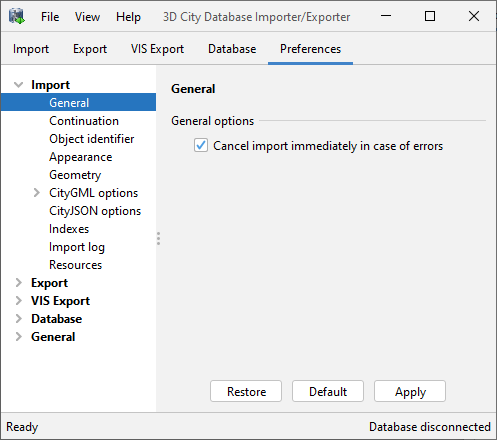
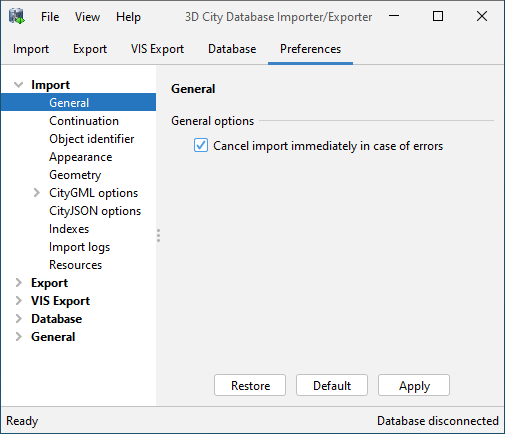
added documentation of new import modes for GUI and CLI

diff --git a/source/impexp/cli/import.rst b/source/impexp/cli/import.rst
@@ -8,9 +8,9 @@ Import command
 .. code-block:: bash
 
    impexp import [-hV] [--[no-]fail-fast] [--ade-extensions=<folder>]
-                 [-c=<file>] [--import-log=<file>]
+                 [-c=<file>] [--duplicate-log=<file>] [--import-log=<file>]
                  [--input-encoding=<encoding>] [--log-file=<file>]
-                 [--log-level=<level>] [--pid-file=<file>]
+                 [--log-level=<level>] [-o=<mode>] [--pid-file=<file>]
                  [--plugins=<folder>] [--use-plugin=<plugin[=true|false]>[,
                  <plugin[=true|false]>...]]... [--worker-threads=<threads[,
                  max]>] [[--creation-date=<mode>]
@@ -21,12 +21,13 @@ Import command
                  <prefix=name>...]]...] [-i=<id>[,<id>...] [-i=<id>[,
                  <id>...]]...] [-b=<minx,miny,maxx,maxy[,srid]>
                  [--bbox-mode=<mode>]] [[--count=<count>]
-                 [--start-index=<index>]] [[--no-appearance]]] [-f=<file>
-                 [-m=<mode>] [-w] [[-n=<name>] [-I=<index>] [--[no-]header]
-                 [-D=<string>] [-Q=<char>] [--quote-escape=<char>]
-                 [-M=<char>] [--csv-encoding=<encoding>]]] [[-T=<database>]
-                 [-H=<host>] [-P=<port>] [-d=<name>] [-S=<schema>]
-                 [-u=<name>] [-p[=<password>]]] [@<filename>...] <file>...
+                 [--start-index=<index>]] [[--no-appearance]]] [-f=<file>[,
+                 <file>...] [-f=<file>[,<file>...]]... [-m=<mode>] [-w]
+                 [[-n=<name>] [-I=<index>] [--[no-]header] [-D=<string>]
+                 [-Q=<char>] [--quote-escape=<char>] [-M=<char>]
+                 [--csv-encoding=<encoding>]]] [[-T=<database>] [-H=<host>]
+                 [-P=<port>] [-d=<name>] [-S=<schema>] [-u=<name>] [-p
+                 [=<password>]]] [@<filename>...] <file>...
 
 **Description**
 
@@ -54,12 +55,33 @@ containing these settings.
    parsed from the XML declaration at the beginning of the dataset if present. Provide an official
    IANA-based character encoding name. The default value is UTF-8.
 
+.. option:: -o, --import-mode=<mode>
+
+   Defines the mode for handling conflicting top-level city objects and for avoiding duplicate objects in
+   the database. Allowed values are ``import_all`` (default), ``skip``, ``delete``, and ``terminate``.
+   With ``import_all``, all top-level city objects from the input file(s) are imported, regardless of whether
+   this results in duplicate objects. For the other modes, the object identifier of each top-level city object
+   to be imported is queried in the database to check whether a city object with identical identifier already
+   exists in the database. If no duplicate is found, the city object is directly imported. Otherwise, ``skip``
+   means that the city object from the input file is skipped and not imported. Thus, the object in the database
+   takes precedence. With ``delete``, the city object from the input file takes precedence and overwrites the
+   duplicate object in the database. For this purpose, the duplicate is first *physically deleted* before
+   importing the object from the input file. When choosing ``terminate`` instead of ``delete``, the duplicate
+   object is only *terminated*.
+
 .. option:: --import-log=<file>
 
    If you want an import log to be created for all top-level features loaded in the database,
-   provide the path to the import log file with this option. Note that log file will be *truncated*
+   provide the path to the import log file with this option. Note that the log file will be *truncated*
    in case it already exists. More information about the import log can be found in
-   :numref:`impexp_import_preferences_import_log`.
+   :numref:`impexp_import_preferences_import_logs`.
+
+.. option:: --duplicate-log=<file>
+
+   This option lets you create a duplicate log that records all objects in the database sharing an
+   identical identifier with a top-level city object from the input file(s). Note that the log file will be
+   *truncated* in case it already exists. More information about the duplicate log can be found in
+   :numref:`impexp_import_preferences_import_logs`.
 
 .. option:: --[no-]fail-fast
 
@@ -273,13 +295,17 @@ the user will be prompted for the password.
 .. code-block:: bash
 
    $ impexp import -H localhost -d citydb_v4 -p -u citydb_user \
+                   -o delete
                    -b 13.3508824,52.4799281,13.3578297,52.4862805,4326 \
                    --bbox-mode=within my_city.gml
 
 Import all city objects from the ``my_city.gml`` file that are ``within`` the provided
 bounding box. The coordinates of the bounding box are given in WGS84. For
 this reason, the fifth value ``4326`` of the :option:`-b` option denotes the SRID
-that is used by the target database for the WGS84 reference system.
+that is used by the target database for the WGS84 reference system. The import operation uses
+``delete`` as import mode. Thus, the identifiers of the top-level city objects from ``my_city.gml``
+satisfying the bounding box filter are queried in the database. If objects sharing the same identifier
+are found in the database, they are first deleted before importing the city objects from ``my_city.gml``.
 
 .. code-block:: bash
 

diff --git a/source/impexp/import.rst b/source/impexp/import.rst
@@ -69,11 +69,38 @@ the same ZIP archive as the CityGML/CityJSON files.
   You can also increase the available memory for the Importer/Exporter
   application (see :numref:`impexp_launching_chapter`).
 
+**Import modes**
+
+After selecting the input files, you can set the *Import mode* [2] for the import operation. The import mode
+specifies how to handle conflicting *top-level city objects* and to avoid duplicate objects in the database. For each
+top-level city object to be imported, its identifier (i.e., `gml:id` in CityGML) is queried in the database to
+check whether a city object with identical identifier already exists in the database. If the search does not yield a
+result, the city object is directly imported. If, however, a duplicate/conflicting city object is found in the
+database, you can choose between the following strategies to resolve the conflict:
+
+1. **Import all** (default): All top-level city objects are imported into the database, regardless of whether this
+   results in duplicate objects. The identifiers from the input files are not looked up in the database in this mode.
+2. **Skip existing**: The top-level city object from the input file is skipped and not imported. Thus, the
+   object in the database takes precedence.
+3. **Delete existing**: The top-level city object from the input file takes precedence and overwrites the duplicate
+   object in the database. For this purpose, the duplicate object in the database is first *physically deleted* before
+   importing the object from the input file.
+4. **Terminate existing**: Same as 3) except that the duplicate object is only *terminated* and, thus, remains in the
+   database.
+
+.. hint::
+  The *skip existing* mode also allows you to easily **resume** a previous import process
+  that was canceled manually or due to errors.
+
+.. note::
+  The duplicate check is only based on the object identifier (`gml:id`). No further checks are performed.
+  Only the top-level city objects from the input files are tested but not their nested child features.
+
 **Import filters**
 
 The import dialog allows for setting thematic and
 spatial filters to narrow down the set of top-level
-city objects that are to be imported from the input files [2]. The
+city objects that are to be imported from the input files [3]. The
 following filters are offered and discussed in separate sections of this chapter:
 
 - :numref:`%s <impexp_import_attribute_filter>` :ref:`impexp_import_attribute_filter`
@@ -90,14 +117,14 @@ be imported. If no checkbox is enabled, no filters are applied and, thus,
 all features contained in the input files will be imported.
 
 .. note::
-   All import filters are only applied to *top-level features* but *not to nested
-   sub-features*.
+   All import filters are only applied to *top-level city objects* but *not to nested
+   child features*.
 
 **Schema validation**
 
 Before importing, the input files can be
 validated against the official CityGML XML and CityJSON schemas. Simply click the
-*Just Validate* button [4] in order to run the validation process.
+*Just Validate* button [5] in order to run the validation process.
 Filter settings are **not considered** in this process. Note that this
 operation does not require internet access since the schemas are
 packaged with the application. The features from the input files are **not imported**
@@ -122,7 +149,7 @@ to the console window.
 
 More fine-grained preference settings affecting
 the import operation are available on the *Preferences* tab of the
-operations window [5]. Make sure to check these settings *before* starting
+operations window [6]. Make sure to check these settings *before* starting
 the import process. A full documentation of the import preferences is
 provided in :numref:`impexp_citygml_import_preferences_chapter`.
 The following table provides a summary overview.
@@ -157,8 +184,8 @@ The following table provides a summary overview.
    * - | :ref:`impexp_import_preferences_indexes`
      - | Settings for automatically enabling/disabling spatial and normal
        | indexes during imports.
-   * - | :ref:`impexp_import_preferences_import_log`
-     - | Creates a list of all successfully imported CityGML top-level features.
+   * - | :ref:`impexp_import_preferences_import_logs`
+     - | Additional log files for recording successfully imported top-level features and duplicate objects.
    * - | :ref:`impexp_import_preferences_resources_chapter`
      - | Allocation of computer resources used in the import operation.
 
@@ -166,7 +193,7 @@ The following table provides a summary overview.
 **Starting the import process**
 
 Once all import settings are correct, the *Import*
-button [3] starts the import process. If a database connection has not
+button [4] starts the import process. If a database connection has not
 been established manually beforehand, the currently selected entry on
 the *Database* tab is used to connect to the 3D City Database. The
 separate steps of the import process as well as all errors and warnings that might

diff --git a/source/impexp/import-preferences/import-logs.rst b/source/impexp/import-preferences/import-logs.rst
@@ -1,7 +1,19 @@
-.. _impexp_import_preferences_import_log:
+.. _impexp_import_preferences_import_logs:
 
-Import log
-^^^^^^^^^^
+Import logs
+^^^^^^^^^^^
+
+This preference settings allow you to create additional log files during an import operation that record
+the successfully imported top-level city objects (*import log*) or provide a list of the duplicate objects found in
+the database (*duplicate log*).
+
+.. figure:: /media/impexp_import_preferences_logs_fig.png
+   :name: impexp_import_preferences_logs_fig
+   :align: center
+
+   Import preferences – Import logs.
+
+**Import log**
 
 An import process not necessarily works on all top-level features
 contained in the provided input file(s). An obvious reason is that
@@ -13,13 +25,7 @@ top-level features were actually loaded into the database during an
 import session, a user can choose to let the Importer/Exporter create
 an *import log*.
 
-.. figure:: /media/impexp_import_preferences_log_fig.png
-   :name: impexp_import_preferences_log_fig
-   :align: center
-
-   Import preferences – Import log.
-
-Simply enable the checkbox on this settings dialog to activate import
+Simply enable the *Record imported top-level features in log file* checkbox on this settings dialog to activate import
 logs (disabled per default). You additionally must provide the full path
 to the log file that shall be used to record the imported features. Either type the
 file name manually or use the *Browse* button to open a file selection
@@ -66,7 +72,7 @@ the header line. The meaning of the fields is as follows.
    * - | **Field name**
      - | **Description**
    * - | FEATURE_TYPE
-     - | An string representing the typename of the imported CityGML feature.
+     - | A string representing the type of the imported top-level feature.
    * - | CITYOBJECT_ID
      - | The value of the ID column (primary key) of the CITYOBJECT table where the feature was inserted.
    * - | GMLID_IN_FILE
@@ -90,3 +96,47 @@ about whether the import was *successfully finished* or *aborted*.
   - A **rollback** can be achieved by feeding the import log as delete list to
     the ``delete`` command of the Importer/Exporter command-line interface (see
     :numref:`impexp_cli_delete_command`).
+
+**Duplicate log**
+
+In addition to the list of successfully imported features, you can let the import operation *record
+already existing top-level features* in a separate log file. If enabled, this so-called *duplicate log* will list
+all city objects in the database having an identical identifier with a top-level city object from the input
+file(s) that are used in the import process.
+
+Simply provide a file or directory where the duplicate log should be stored. In case of a directory, the
+Importer/Exporter will choose a unique file name for every import operation based on the following pattern:
+
+``duplicate-features-yyyy-MM-dd_HH-mm-ss-SSS.log``
+
+If you provide the file name for the log file instead, this log file will be used by the Importer/Exporter for all
+import operations. In contrast to the import log, the duplicate log **always gets truncated** when a new import
+operation is started.
+
+Just like the import log, the duplicate log is a simple CSV file with one record per duplicate object. The layout
+of the CSV file is almost identical to the import log and shown in the figure below.
+
+.. figure:: /media/impexp_duplicate_log_example_fig.png
+   :name: impexp_duplicate_log_example_fig
+   :align: center
+
+   Example duplicate log.
+
+The following table explains the meaning of the fields in the duplicate log.
+
+.. list-table::  Fields of the CSV duplicate log file
+   :name: impexp_duplicate_log_csv_table
+   :widths: 30 70
+
+   * - | **Field name**
+     - | **Description**
+   * - | CITYOBJECT_ID
+     - | The value of the ID column (primary key) of the CITYOBJECT table where the duplicate object is stored.
+   * - | GMLID
+     - | The duplicate object identifier that is shared by the object in the database and the top-level city object from the input file.
+   * - | FEATURE_TYPE_IN_DB
+     - | A string representing the type of the duplicate object in the database.
+   * - | FEATURE_TYPE_IN_FILE
+     - | A string representing the type of the top-level city object from the input file.
+   * - | INPUT_FILE
+     - | The path of the input file for which duplicates were found in the database.

diff --git a/source/impexp/cli/delete.rst b/source/impexp/cli/delete.rst
@@ -41,7 +41,7 @@ features to be deleted. In addition, you can also use a delete list. Delete list
 are CSV files that contain a list of identifiers (and possibly further data). Each city object in the database
 whose identifier matches an entry in the delete list will be deleted. For example,
 the import log file created when importing CityGML/CityJSON files into
-the database (see :numref:`impexp_import_preferences_import_log`) can be used as
+the database (see :numref:`impexp_import_preferences_import_logs`) can be used as
 delete list. This comes in very handy when you want to "rollback" an import process,
 for instance, because it aborted due to errors.
 
@@ -362,7 +362,7 @@ which is set to 2, and the type of the identifier, which is set to ``db``.
 The above example has been chosen deliberately because it illustrates how
 to use an import log file created by a CityGML/CityJSON import
 operation as delete list for the ``delete`` command. The general layout
-and content of an import log file is discussed in :numref:`impexp_import_preferences_import_log`.
+and content of an import log file is discussed in :numref:`impexp_import_preferences_import_logs`.
 The snippet below shows an example.
 
 .. code-block:: bash

diff --git a/source/impexp/import-preferences/general.rst b/source/impexp/import-preferences/general.rst
@@ -17,7 +17,7 @@ invalid data violating the CityGML or CityJSON schemas, missing external resourc
 or invalid geometries. The default behaviour of the import operation is to *fail fast* on errors and to immediately
 cancel the import process. This way, invalid top-level city objects will not be imported into your
 database. If your import aborts due to errors, you can use the import log to resume or rollback the import operation
-(see :numref:`impexp_import_preferences_import_log` for more details).
+(see :numref:`impexp_import_preferences_import_logs` for more details).
 
 You can disable the fail fast behaviour by unchecking the *Cancel import immediately in case of errors* option
 offered by this preferences dialog. When doing so, errors encountered during the import process are still recorded

diff --git a/source/impexp/import-preferences/xml-validation.rst b/source/impexp/import-preferences/xml-validation.rst
@@ -26,7 +26,7 @@ If XML validation is chosen to be performed automatically during
 imports, every invalid top-level feature will be discarded from the
 import. Nevertheless, the import procedure will continue to work on the
 remaining features in the input file(s). To track which features have
-been imported, you can enable the import log (see :numref:`impexp_import_preferences_import_log`).
+been imported, you can enable the import log (see :numref:`impexp_import_preferences_import_logs`).
 
 Validation errors are printed to the console window. Often, error
 messages quickly become lengthy and confusing. To keep the console

diff --git a/source/impexp/import-filters/import-list.rst b/source/impexp/import-filters/import-list.rst
@@ -72,7 +72,7 @@ objects are either imported or skipped.
 **Example use case**
 
 One use case for this filter is when using import logs for the import operation
-(see :numref:`impexp_import_preferences_import_log`).
+(see :numref:`impexp_import_preferences_import_logs`).
 Assume you start an import operation on a set of input files and the import is aborted or fails after
 a certain amount of features. The import log will contain the identifiers of those city
 objects that were successfully imported before the operation aborted. Thus, with this filter,

diff --git a/source/webmap/online-spreadsheet.rst b/source/webmap/online-spreadsheet.rst
@@ -149,6 +149,7 @@ The response from PostgREST service is encoded in JSON with the following struct
       The ``gmlids`` here can be duplicated in other records, 
       but the combination of the first two columns must be unique.
       ::
+
          [
             { "gmlid" : "id1", "attribute" : "value_name", "value" : "value" },
             { "gmlid" : "id2", "attribute" : "value_name", "value" : "value" },

diff --git a/source/impexp/import-preferences/index.rst b/source/impexp/import-preferences/index.rst
@@ -19,5 +19,5 @@ preference settings that are presented in this chapter.
    xsl-transformation
    cityjson
    indexes
-   import-log
+   import-logs
    resources
